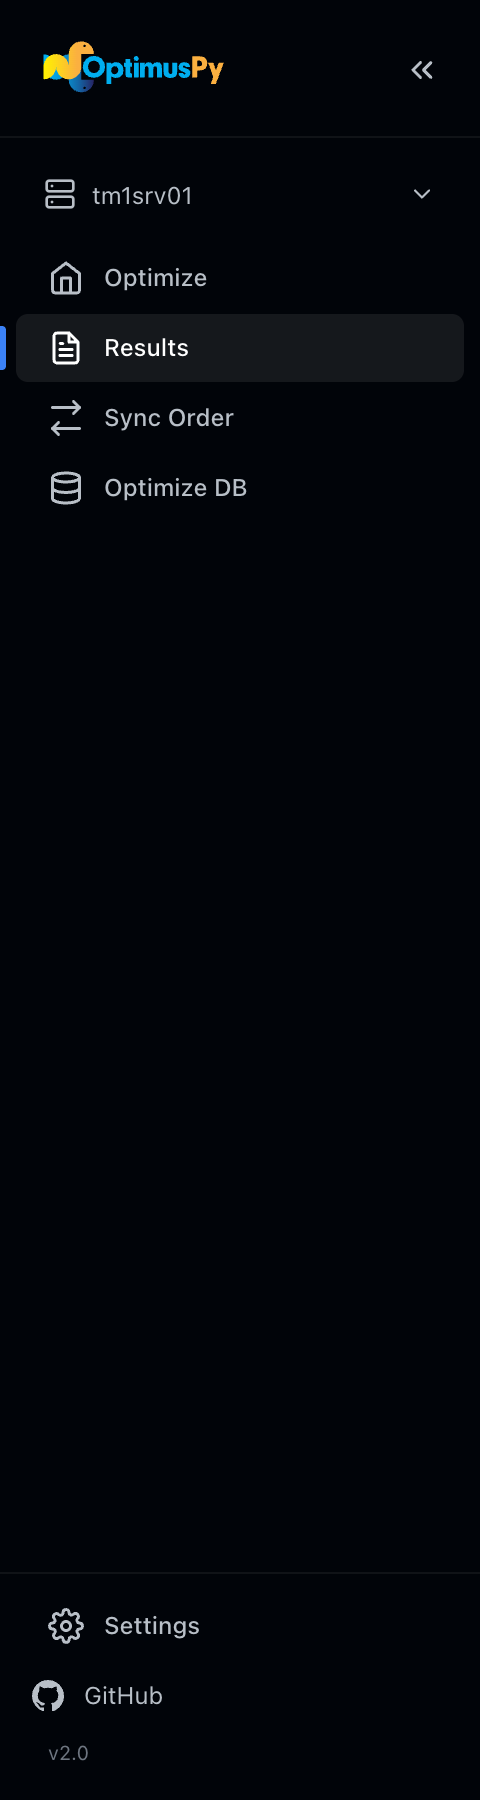
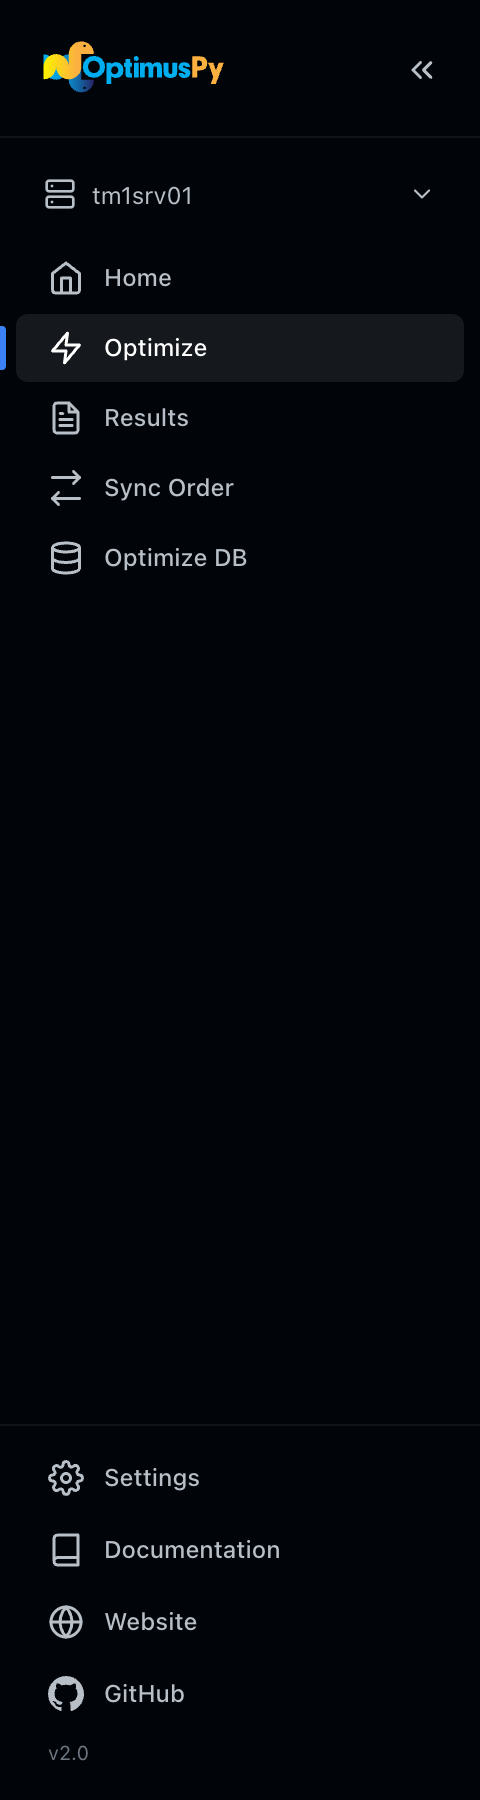
ui: Home is in the sidebar, with links to the documentation and the website
Home keeps its instance tiles and the Tips & Getting Started guide after
you connect, and opens with the guide expanded. The sidebar footer links
the documentation, the landing page and GitHub; Home links the first two.

diff --git a/src/optimuspy/static/app.js b/src/optimuspy/static/app.js
@@ -1553,11 +1553,11 @@ const OptimusPy = (function () {
         const href = a.getAttribute("href");
         if (!href) return;
         const page = a.dataset.page;
-        a.classList.toggle("active", page === pageName || pageName === "nav" && page === "home");
+        a.classList.toggle("active", page === pageName);
       });
 
       // Update title
-      const titles = { home: "Optimize", nav: query.cube || "Navigation", results: "Results", jobs: "Jobs", settings: "Settings", transfer: "Sync Order", "optimize-db": "Optimize DB" };
+      const titles = { home: "Home", nav: query.cube || "Optimize", results: "Results", jobs: "Jobs", settings: "Settings", transfer: "Sync Order", "optimize-db": "Optimize DB" };
       document.title = `OptimusPy — ${titles[pageName] || "Dashboard"}`;
 
       // Mount
@@ -1575,35 +1575,30 @@ const OptimusPy = (function () {
     _ramThreshold: 60,
     _includeOptimized: false,
 
+    // Instance tiles and the getting-started guide; reachable from the sidebar
+    // at any time, connected or not.
     mount() {
       const page = $("#page-home");
       page.innerHTML = "";
 
-      if (!state.connected) {
-        this._renderDisconnected(page);
-      } else {
-        // Connected — redirect to the navigation split-panel view
-        Router.navigate("#/nav");
-      }
-    },
-
-    // ---- Not connected: instance tiles + collapsible help ----
-    _renderDisconnected(page) {
       page.appendChild(el("div", { className: "page-header" },
         el("h1", { className: "page-title" }, "OptimusPy"),
-        el("p", { className: "page-subtitle" }, "Connect to a TM1 instance to get started"),
+        el("p", { className: "page-subtitle" }, state.connected
+          ? `Connected to ${state.activeInstance}. Open it on the Optimize page, or connect to another instance`
+          : "Connect to a TM1 instance to get started"),
       ));
 
       if (state.instances.length > 0) {
         const tilesGrid = el("div", { className: "instance-tiles" });
         state.instances.forEach(name => {
+          const active = state.connected && name === state.activeInstance;
           const tile = el("button", {
             className: "instance-tile",
-            onClick: () => Sidebar._promptConnect(name),
+            onClick: () => active ? Router.navigate("#/nav") : Sidebar._promptConnect(name),
           },
             el("div", { className: "instance-tile-icon", html: '<svg aria-hidden="true" viewBox="0 0 24 24" width="28" height="28" fill="none" stroke="currentColor" stroke-width="1.5" stroke-linecap="round" stroke-linejoin="round"><rect x="2" y="2" width="20" height="8" rx="2" ry="2"/><rect x="2" y="14" width="20" height="8" rx="2" ry="2"/><line x1="6" y1="6" x2="6.01" y2="6"/><line x1="6" y1="18" x2="6.01" y2="18"/></svg>' }),
             el("div", { className: "instance-tile-name" }, name),
-            el("div", { className: "instance-tile-hint" }, "Click to connect"),
+            el("div", { className: "instance-tile-hint" }, active ? "Connected: open Optimize" : "Click to connect"),
           );
           tilesGrid.appendChild(tile);
         });
@@ -1616,7 +1611,13 @@ const OptimusPy = (function () {
         ));
       }
 
-      // Collapsible help section
+      page.appendChild(el("div", { className: "flex gap-2 mt-4 flex-wrap" },
+        el("a", { className: "btn btn-secondary btn-sm", href: "https://cubewise-code.github.io/optimus-py/docs/", target: "_blank", rel: "noopener noreferrer" },
+          el("span", { html: Icons.externalLink }), "Documentation"),
+        el("a", { className: "btn btn-secondary btn-sm", href: "https://cubewise-code.github.io/optimus-py/", target: "_blank", rel: "noopener noreferrer" },
+          el("span", { html: Icons.externalLink }), "Website"),
+      ));
+
       page.appendChild(this._buildCollapsibleHelp());
     },
 
@@ -1634,9 +1635,9 @@ const OptimusPy = (function () {
       const section = el("div", { className: "collapsible-help" });
       const toggle = el("button", { className: "collapsible-help-toggle" },
         el("span", null, "Tips & Getting Started"),
-        el("span", { className: "collapsible-help-chevron", html: Icons.chevronRight }),
+        el("span", { className: "collapsible-help-chevron", html: Icons.chevronRight, style: "transform:rotate(90deg)" }),
       );
-      const content = el("div", { className: "collapsible-help-content hidden" });
+      const content = el("div", { className: "collapsible-help-content" });
       content.appendChild(this._buildGuideContent());
       toggle.addEventListener("click", () => {
         content.classList.toggle("hidden");

diff --git a/src/optimuspy/static/index.html b/src/optimuspy/static/index.html
@@ -56,6 +56,13 @@
             <path d="M3 9l9-7 9 7v11a2 2 0 0 1-2 2H5a2 2 0 0 1-2-2z"></path>
             <polyline points="9 22 9 12 15 12 15 22"></polyline>
           </svg>
+          <span class="nav-label">Home</span>
+        </a>
+
+        <a class="nav-item" href="#/nav" data-page="nav">
+          <svg viewBox="0 0 24 24" width="18" height="18" fill="none" stroke="currentColor" stroke-width="2" stroke-linecap="round" stroke-linejoin="round" aria-hidden="true">
+            <polygon points="13 2 3 14 12 14 11 22 21 10 12 10 13 2"></polygon>
+          </svg>
           <span class="nav-label">Optimize</span>
         </a>
 
@@ -105,8 +112,16 @@
           </svg>
           <span class="nav-label">Settings</span>
         </a>
-        <a class="sidebar-github" href="https://github.com/cubewise-code/optimus-py" target="_blank" rel="noopener noreferrer" aria-label="OptimusPy on GitHub">
-          <svg viewBox="0 0 24 24" width="16" height="16" fill="currentColor" aria-hidden="true"><path d="M12 0C5.37 0 0 5.37 0 12c0 5.31 3.435 9.795 8.205 11.385.6.105.825-.255.825-.57 0-.285-.015-1.23-.015-2.235-3.015.555-3.795-.735-4.035-1.41-.135-.345-.72-1.41-1.23-1.695-.42-.225-1.02-.78-.015-.795.945-.015 1.62.87 1.845 1.23 1.08 1.815 2.805 1.305 3.495.99.105-.78.42-1.305.765-1.605-2.67-.3-5.46-1.335-5.46-5.925 0-1.305.465-2.385 1.23-3.225-.12-.3-.54-1.53.12-3.18 0 0 1.005-.315 3.3 1.23.96-.27 1.98-.405 3-.405s2.04.135 3 .405c2.295-1.56 3.3-1.23 3.3-1.23.66 1.65.24 2.88.12 3.18.765.84 1.23 1.905 1.23 3.225 0 4.605-2.805 5.625-5.475 5.925.435.375.81 1.095.81 2.22 0 1.605-.015 2.895-.015 3.3 0 .315.225.69.825.57A12.02 12.02 0 0024 12c0-6.63-5.37-12-12-12z"/></svg>
+        <a class="sidebar-link" href="https://cubewise-code.github.io/optimus-py/docs/" target="_blank" rel="noopener noreferrer" aria-label="OptimusPy documentation">
+          <svg viewBox="0 0 24 24" width="18" height="18" fill="none" stroke="currentColor" stroke-width="2" stroke-linecap="round" stroke-linejoin="round" aria-hidden="true"><path d="M4 19.5A2.5 2.5 0 0 1 6.5 17H20"></path><path d="M6.5 2H20v20H6.5A2.5 2.5 0 0 1 4 19.5v-15A2.5 2.5 0 0 1 6.5 2z"></path></svg>
+          <span class="nav-label">Documentation</span>
+        </a>
+        <a class="sidebar-link" href="https://cubewise-code.github.io/optimus-py/" target="_blank" rel="noopener noreferrer" aria-label="OptimusPy website">
+          <svg viewBox="0 0 24 24" width="18" height="18" fill="none" stroke="currentColor" stroke-width="2" stroke-linecap="round" stroke-linejoin="round" aria-hidden="true"><circle cx="12" cy="12" r="10"></circle><line x1="2" y1="12" x2="22" y2="12"></line><path d="M12 2a15.3 15.3 0 0 1 4 10 15.3 15.3 0 0 1-4 10 15.3 15.3 0 0 1-4-10 15.3 15.3 0 0 1 4-10z"></path></svg>
+          <span class="nav-label">Website</span>
+        </a>
+        <a class="sidebar-link" href="https://github.com/cubewise-code/optimus-py" target="_blank" rel="noopener noreferrer" aria-label="OptimusPy on GitHub">
+          <svg viewBox="0 0 24 24" width="18" height="18" fill="currentColor" aria-hidden="true"><path d="M12 0C5.37 0 0 5.37 0 12c0 5.31 3.435 9.795 8.205 11.385.6.105.825-.255.825-.57 0-.285-.015-1.23-.015-2.235-3.015.555-3.795-.735-4.035-1.41-.135-.345-.72-1.41-1.23-1.695-.42-.225-1.02-.78-.015-.795.945-.015 1.62.87 1.845 1.23 1.08 1.815 2.805 1.305 3.495.99.105-.78.42-1.305.765-1.605-2.67-.3-5.46-1.335-5.46-5.925 0-1.305.465-2.385 1.23-3.225-.12-.3-.54-1.53.12-3.18 0 0 1.005-.315 3.3 1.23.96-.27 1.98-.405 3-.405s2.04.135 3 .405c2.295-1.56 3.3-1.23 3.3-1.23.66 1.65.24 2.88.12 3.18.765.84 1.23 1.905 1.23 3.225 0 4.605-2.805 5.625-5.475 5.925.435.375.81 1.095.81 2.22 0 1.605-.015 2.895-.015 3.3 0 .315.225.69.825.57A12.02 12.02 0 0024 12c0-6.63-5.37-12-12-12z"/></svg>
           <span class="nav-label">GitHub</span>
         </a>
         <div class="sidebar-version">v2.0</div>

diff --git a/src/optimuspy/static/styles.css b/src/optimuspy/static/styles.css
@@ -321,9 +321,9 @@ input[type="range"] { box-shadow: none; }
   align-items: center;
 }
 
-.sidebar.collapsed .sidebar-github {
+.sidebar.collapsed .sidebar-link {
   justify-content: center;
-  padding: 8px 0;
+  padding: 10px 0;
 }
 
 /* Sidebar header */
@@ -2003,20 +2003,22 @@ select {
 }
 
 /* ------------------------------------------------------------------
-   Sidebar GitHub link
+   Sidebar external links (documentation, website, GitHub)
    ------------------------------------------------------------------ */
-.sidebar-github {
+.sidebar-link {
   display: flex;
   align-items: center;
   gap: 10px;
   padding: 8px 16px;
+  margin: 1px 8px;
   color: var(--sidebar-text);
   font-size: var(--font-size-sm);
+  font-weight: var(--font-weight-medium);
   text-decoration: none;
   border-radius: var(--radius-md);
   transition: background var(--transition-fast);
 }
-.sidebar-github:hover {
+.sidebar-link:hover {
   background: var(--sidebar-hover);
   text-decoration: none;
 }

diff --git a/docs/ui/overview.md b/docs/ui/overview.md
@@ -47,16 +47,18 @@ The executable ships without a `config.ini`. Create `config/config.ini` next to 
 
 ## Sidebar navigation
 
-![OptimusPy sidebar with all five pages](../assets/images/optimuspy/ui/sidebar-overview.png)
+![OptimusPy sidebar with Home, the five pages, and the Documentation, Website and GitHub links](../assets/images/optimuspy/ui/sidebar-overview.png)
 
 | Item | Purpose |
 |---|---|
 | **Instance switcher** | Pick the active TM1 connection. It is the instance the Optimize page works on; Sync Order and Optimize DB pick their own. |
+| **Home** | Connect to an instance, and read *Tips & Getting Started*: the steps of a run, the optimization modes and tips on dimension order. It's where the UI opens, and it stays reachable after you connect. |
 | **Optimize** | Scan candidates and run benchmarks for one or many cubes. |
 | **Results** | Browse generated HTML / CSV / XLSX reports. |
 | **Sync Order** | Promote dimension orders from a source instance to a target instance. |
 | **Optimize DB** | Reorder every cube on an instance by leaf-element count, fewest first, within a time limit. See the [Optimize DB Page](optimize-db-page.md). |
 | **Settings** | At the bottom of the sidebar: choose the `config.ini`, test connections, theme, and local cache. |
+| **Documentation**, **Website**, **GitHub** | Below Settings: this documentation, the OptimusPy landing page and the repository, each in a new tab. The Home page links the first two as well. |
 
 The sidebar collapses to icons on narrow screens, and folds away behind a menu button on a phone. While a job is running, the **Activity Monitor** appears below the page links and names it; click it to open the job's page. The [Jobs page](jobs-page.md) has no sidebar item: open it at `#/jobs`, for example `http://127.0.0.1:8765/#/jobs`.
 
@@ -81,6 +83,7 @@ If you change something on the TM1 server (e.g., delete string elements, rename 
 
 In sidebar order:
 
+- **Home**: instance tiles to connect, and the getting-started guide.
 - **[Optimize](optimize-page.md)**: the main workflow, scan, configure, run.
 - **[Results](results-page.md)**: generated HTML reports and raw data.
 - **[Sync Order](sync-order-page.md)**: drag-and-drop cross-instance promotion.
